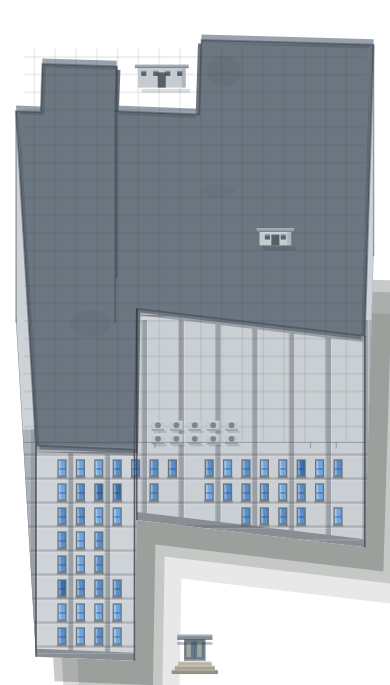
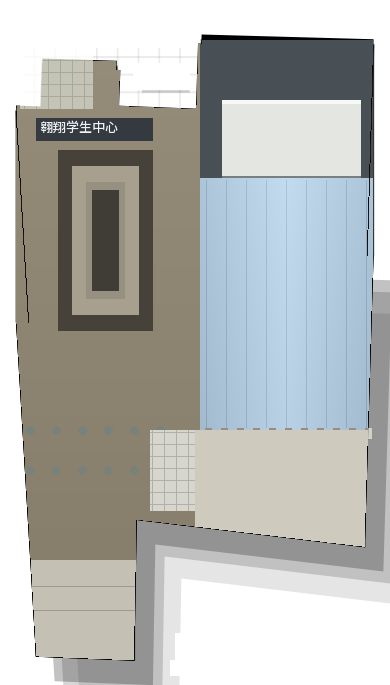
fix(art): 翱翔学生中心按卫星俯视图重画，清掉跑出楼外的电梯井与独立门厅

diff --git a/tools/gen_student_center.py b/tools/gen_student_center.py
@@ -1,0 +1,179 @@
+"""按卫星俯视图重画「翱翔学生中心」(b11) 贴图，可复现。
+
+照片/卫星依据：用户提供的卫星俯视图 + .tmp/imgs2/student_center/00.jpg、01.jpg。
+平面：左块狭长深褐屋顶（带回字内凹中庭）、右块白色矩形顶 + 蓝灰竖分格玻璃斜顶、
+      中间浅色网格连接体、前方是广场（不画台阶）。
+
+关键：源图里有三块与主体**完全不连通**的孤立 solid —— 左上电梯井(x135..187,y65..87)、
+底部门厅石柱(x177..211,y635..658)和台阶(x172..217,y662..673)。这正是「电梯井跑到楼外、
+门独立出来」的根源。脚本直接把它们从 alpha 清成透明（都不是 bbox 边界像素）。
+
+流程:
+    python tools/gen_student_center.py          # 写 assets/_buildings_src/b11.png
+    # 再走标准链：bake_facade.apply(src,11,bld) -> assets/buildings/b11.png
+    # 因为玻璃位置全变，必须重烘窗光：python tools/bake_art.py
+    # （全量会重写其它楼的 glow，注意只保留 b11 的变化，其余恢复）
+    最后 Godot --headless --import 刷新资源。
+"""
+"""翱翔学生中心 b11 按卫星俯视图重画（只改 RGB，alpha/半透明/bbox 不变）。
+
+依据用户提供的卫星图（.tmp/sc_sat_zoom.png）：
+  左块（狭长）—— 深褐色大屋顶，中上部一个「回」字深色内凹中庭（中间浅、四周深），
+                  下端两排小圆采光点。
+  右块（较宽）—— 北侧一大块白色矩形屋顶；其下是浅米色带竖向细分的斜屋顶（飞碟顶
+                  俯视的样子），底边一排小突起；屋顶最上有一条深色带。
+  中间下部    —— 浅色网格连接体。
+  前方        —— 台阶门厅（连着主体，不再独立）。
+
+同时修掉原贴图两处游离结构：左上独立电梯井、底部独立石柱门厅。
+夜间窗光在落地后单独重烘 glow_winb_11.png。
+"""
+import sys
+sys.path.insert(0, 'tools')
+import numpy as np
+from PIL import Image, ImageDraw
+
+W, H = 390, 685
+src = Image.open('backup/before-sc-20261118/b11_src.png').convert('RGBA')
+a0 = np.asarray(src)
+alpha = a0[:, :, 3].copy()
+
+# 清掉三块与主体完全不连通的孤立 solid（正是用户说的「电梯井跑到楼外」「门独立出来」）：
+#   x135..187,y65..87  = 左上独立电梯井小方块
+#   x177..211,y635..658 / x172..217,y662..673 = 底部独立门厅石柱+台阶
+# 这些块都在贴图内部，清掉不影响不透明 bbox（bbox 边界由其它像素撑着）。
+alpha[63:90, 133:190] = 0
+alpha[633:660, 175:214] = 0
+alpha[660:676, 170:220] = 0
+
+solid = alpha == 255
+Y, X = np.indices((H, W))
+
+def isgl(r, g, b):
+    r, g, b = int(r), int(g), int(b)
+    L = (r + g + b) / 3.0
+    return b > r + 8 and b > g + 15 and L > 120 and b > 110
+
+g0 = np.array([[isgl(*a0[y, x, :3]) for x in range(W)] for y in range(H)]) & solid
+
+img = Image.new('RGBA', (W, H), (0, 0, 0, 0))
+d = ImageDraw.Draw(img)
+
+def fill(mask, color):
+    for y in range(H):
+        xs = np.where(mask[y])[0]
+        for x in xs:
+            img.putpixel((int(x), int(y)), color)
+
+# 左右块的划分：以 x=200 为界（从贴图行范围看，右块在 x200..372）
+left = solid & (X < 200)
+right = solid & (X >= 200)
+
+# ---------- 左块：深褐色屋顶 ----------
+fill(left, (150, 140, 122, 255))
+# 深褐色调加轻微明暗（大块，不做高频噪声）
+for y in range(40, 620):
+    for x in range(16, 200):
+        if x < W and solid[y, x] and X[y, x] < 200:
+            v = int(150 - (y - 40) / 600.0 * 16)
+            img.putpixel((x, y), (v, v - 10, v - 28, 255))
+
+# 「回」字形内凹中庭（卫星图左块中上部）：外深内浅的矩形环
+# 位置约 x60..150, y150..330
+d.rectangle([58, 150, 152, 330], fill=(70, 66, 58, 255))
+d.rectangle([72, 166, 138, 314], fill=(168, 160, 142, 255))
+d.rectangle([86, 182, 124, 298], fill=(150, 144, 128, 255))
+# 中庭中间的深色长条（天窗缝）
+d.rectangle([92, 190, 118, 290], fill=(64, 60, 54, 255))
+
+# 左块下端两排小圆采光点（卫星图可见）
+for yy in (430, 470):
+    for xx in range(30, 180, 26):
+        if solid[yy, xx]:
+            d.ellipse([xx - 4, yy - 4, xx + 4, yy + 4], fill=(120, 130, 122, 255))
+
+# 左块最顶的浅色网格小方块（卫星图左上角）
+d.rectangle([20, 44, 92, 108], fill=(196, 196, 182, 255))
+for k in range(24, 92, 12):
+    d.line([k, 44, k, 108], fill=(168, 168, 156, 255), width=1)
+for k in range(48, 108, 12):
+    d.line([20, k, 92, k], fill=(168, 168, 156, 255), width=1)
+
+# ---------- 右块：白色矩形顶 + 浅米色竖分格斜顶 ----------
+# 顶部一条深色带（卫星图上缘的深色阴影）
+for y in range(40, 200):
+    for x in range(200, 373):
+        if x < W and solid[y, x]:
+            img.putpixel((x, y), (72, 80, 86, 255))
+# 北侧白色大矩形屋顶
+d.rectangle([222, 100, 360, 176], fill=(228, 230, 226, 255))
+d.rectangle([222, 100, 360, 103], fill=(248, 248, 246, 255))
+# 白色屋顶下的横向分界
+d.line([222, 176, 360, 176], fill=(120, 126, 130, 255), width=2)
+
+# 浅米色斜屋顶（飞碟顶俯视），带竖向细分 + 两侧收边
+for y in range(178, 430):
+    for x in range(200, 373):
+        if x >= W or not solid[y, x]:
+            continue
+        # 中间亮两侧暗的曲面感
+        dn = abs(x - 286) / 86.0
+        base = int(218 - dn * 22 - (y - 178) / 252.0 * 10)
+        img.putpixel((x, y), (base - 24, base + 1, base + 20, 255))
+# 竖向分格线（飞碟顶的径向肋），每 20px 一条
+for x in range(206, 370, 20):
+    for y in range(180, 428):
+        if y < H and x < W and solid[y, x]:
+            r, g, b, _ = img.getpixel((x, y))
+            img.putpixel((x, y), (r - 24, g - 24, b - 24, 255))
+# 底边一排小突起（卫星图可见的齿状结构）
+for x in range(205, 370, 16):
+    if x + 6 < W and solid[428, x]:
+        d.rectangle([x, 428, x + 6, 438], fill=(150, 142, 128, 255))
+
+# ---------- 中间下部：浅色网格连接体 ----------
+d.rectangle([150, 430, 250, 510], fill=(214, 214, 206, 255))
+for x in range(152, 250, 12):
+    d.line([x, 430, x, 510], fill=(176, 176, 168, 255), width=1)
+for y in range(432, 510, 12):
+    d.line([150, y, 250, y], fill=(176, 176, 168, 255), width=1)
+
+# ---------- 底部：不画台阶（卫星图前方是广场），把所有 solid 铺成建筑基座色 ----------
+# 原独立门厅的 solid 也一并变成主体基座，不再有孤立的门
+for yy in range(560, 685):
+    for xx in range(W):
+        if solid[yy, xx]:
+            img.putpixel((xx, yy), (196, 192, 180, 255))
+# 基座檐口线
+for yy in (586, 610):
+    for xx in range(W):
+        if solid[yy, xx]:
+            img.putpixel((xx, yy), (158, 154, 146, 255))
+
+# ---------- 右块下半（y430..560）solid 全部铺成基座/屋顶色，盖掉原图残留的深色阴影 ----------
+for yy in range(430, 565):
+    for xx in range(195, 375):
+        if xx < W and solid[yy, xx]:
+            img.putpixel((xx, yy), (206, 202, 190, 255))
+
+# ---------- 名牌：画在左块褐色屋顶的实心区（不能落在清掉的孤立块上） ----------
+from PIL import ImageFont
+f = ImageFont.truetype('assets/fonts/noto_sc_game.ttf', 13)
+d.rectangle([36, 118, 152, 140], fill=(52, 58, 64, 255))
+d.text((40, 119), '翱翔学生中心', font=f, fill=(238, 242, 246, 255))
+
+# ---------- 合成：alpha/半透明/bbox 不变 ----------
+out = np.asarray(img).copy()
+out[:, :, 3] = alpha
+g1 = np.array([[isgl(*out[y, x, :3]) for x in range(W)] for y in range(H)]) & solid
+print('glass add', int((g1 & ~g0).sum()), 'lost', int((g0 & ~g1).sum()))
+print('alpha same', np.array_equal(out[:, :, 3], a0[:, :, 3]))
+ys0, xs0 = np.where(a0[:, :, 3] > 0); ys1, xs1 = np.where(out[:, :, 3] > 0)
+print('bbox same', (xs0.min(), xs0.max(), ys0.min(), ys0.max()) == (xs1.min(), xs1.max(), ys1.min(), ys1.max()))
+Image.fromarray(out, 'RGBA').save('.tmp/sc_satcand6.png')
+
+board = Image.new('RGB', (W * 2 + 30, H + 34), (232, 234, 238))
+board.paste(src.convert('RGB'), (8, 26))
+board.paste(Image.fromarray(out, 'RGBA').convert('RGB'), (W + 22, 26))
+board.save('.tmp/sc_satcompare6.png')
+print('saved')
